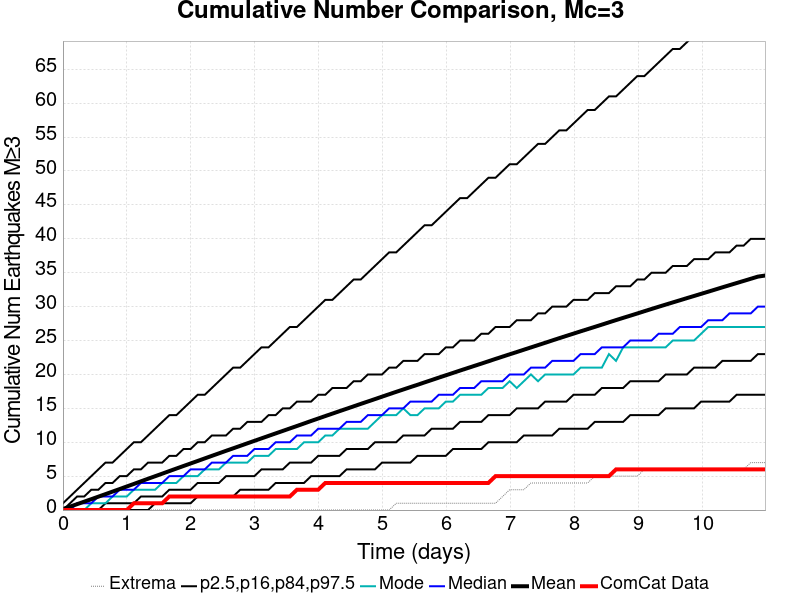
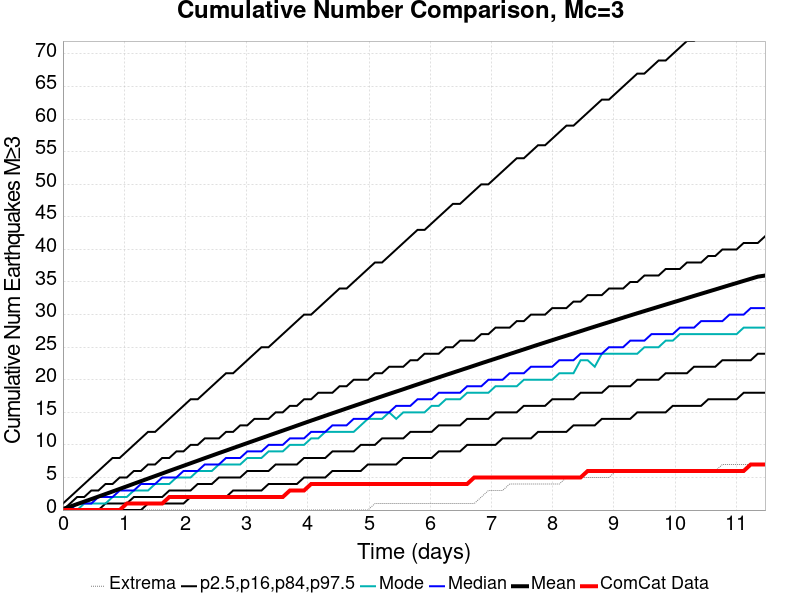
automatic plot and index update from opensha.usc.edu

diff --git a/2019_08_03-ComCatM7p1_ci38457511_28DaysAfter_ShakeMapSurfaces-noSpont-full_td-scale1.14/index.html b/2019_08_03-ComCatM7p1_ci38457511_28DaysAfter_ShakeMapSurfaces-noSpont-full_td-scale1.14/index.html
@@ -762,15 +762,15 @@ img {
 <p><em><a href="#table-of-contents">(top)</a></em></p>
 <table>
 <thead>
-<tr><th></th><th>1 Day</th><th>1 Week</th><th>11 Day</th></tr>
+<tr><th></th><th>1 Day</th><th>1 Week</th><th>11.5 Day</th></tr>
 </thead>
 <tbody>
-<tr><td><strong>M≥3</strong></td><td><img src="plots/comcat_compare_mean_1d_m3.png" alt="Map" /></td><td><img src="plots/comcat_compare_mean_1wk_m3.png" alt="Map" /></td><td><img src="plots/comcat_compare_mean_11d_m3.png" alt="Map" /></td></tr>
-<tr><td><strong>M≥4</strong></td><td><img src="plots/comcat_compare_mean_1d_m4.png" alt="Map" /></td><td><img src="plots/comcat_compare_mean_1wk_m4.png" alt="Map" /></td><td><img src="plots/comcat_compare_mean_11d_m4.png" alt="Map" /></td></tr>
-<tr><td><strong>M≥5</strong></td><td><img src="plots/comcat_compare_mean_1d_m5.png" alt="Map" /></td><td><img src="plots/comcat_compare_mean_1wk_m5.png" alt="Map" /></td><td><img src="plots/comcat_compare_mean_11d_m5.png" alt="Map" /></td></tr>
-<tr><td><strong>M≥6</strong></td><td><img src="plots/comcat_compare_mean_1d_m6.png" alt="Map" /></td><td><img src="plots/comcat_compare_mean_1wk_m6.png" alt="Map" /></td><td><img src="plots/comcat_compare_mean_11d_m6.png" alt="Map" /></td></tr>
-<tr><td><strong>M≥7</strong></td><td><img src="plots/comcat_compare_mean_1d_m7.png" alt="Map" /></td><td><img src="plots/comcat_compare_mean_1wk_m7.png" alt="Map" /></td><td><img src="plots/comcat_compare_mean_11d_m7.png" alt="Map" /></td></tr>
-<tr><td><strong>M≥8</strong></td><td><img src="plots/comcat_compare_mean_1d_m8.png" alt="Map" /></td><td><img src="plots/comcat_compare_mean_1wk_m8.png" alt="Map" /></td><td><img src="plots/comcat_compare_mean_11d_m8.png" alt="Map" /></td></tr>
+<tr><td><strong>M≥3</strong></td><td><img src="plots/comcat_compare_mean_1d_m3.png" alt="Map" /></td><td><img src="plots/comcat_compare_mean_1wk_m3.png" alt="Map" /></td><td><img src="plots/comcat_compare_mean_11.5d_m3.png" alt="Map" /></td></tr>
+<tr><td><strong>M≥4</strong></td><td><img src="plots/comcat_compare_mean_1d_m4.png" alt="Map" /></td><td><img src="plots/comcat_compare_mean_1wk_m4.png" alt="Map" /></td><td><img src="plots/comcat_compare_mean_11.5d_m4.png" alt="Map" /></td></tr>
+<tr><td><strong>M≥5</strong></td><td><img src="plots/comcat_compare_mean_1d_m5.png" alt="Map" /></td><td><img src="plots/comcat_compare_mean_1wk_m5.png" alt="Map" /></td><td><img src="plots/comcat_compare_mean_11.5d_m5.png" alt="Map" /></td></tr>
+<tr><td><strong>M≥6</strong></td><td><img src="plots/comcat_compare_mean_1d_m6.png" alt="Map" /></td><td><img src="plots/comcat_compare_mean_1wk_m6.png" alt="Map" /></td><td><img src="plots/comcat_compare_mean_11.5d_m6.png" alt="Map" /></td></tr>
+<tr><td><strong>M≥7</strong></td><td><img src="plots/comcat_compare_mean_1d_m7.png" alt="Map" /></td><td><img src="plots/comcat_compare_mean_1wk_m7.png" alt="Map" /></td><td><img src="plots/comcat_compare_mean_11.5d_m7.png" alt="Map" /></td></tr>
+<tr><td><strong>M≥8</strong></td><td><img src="plots/comcat_compare_mean_1d_m8.png" alt="Map" /></td><td><img src="plots/comcat_compare_mean_1wk_m8.png" alt="Map" /></td><td><img src="plots/comcat_compare_mean_11.5d_m8.png" alt="Map" /></td></tr>
 </tbody>
 </table>
 <h3 id="comcat-depth-distribution">ComCat Depth Distribution</h3>

diff --git a/index.html b/index.html
@@ -26,7 +26,7 @@ img {
 </thead>
 <tbody>
 <tr><td>2019/08/09</td><td><a href="2019_08_09-ComCatM7p1_ci38457511_ShakeMapSurfaces_NoERT-noSpont-no_ert/index.html">ComCat M7.1 (ci38457511), ShakeMap Surfaces, NoERT</a></td><td>2019/07/05</td><td>100000</td><td>Done</td><td>2019/08/09</td></tr>
-<tr><td>2019/08/03</td><td><a href="2019_08_03-ComCatM7p1_ci38457511_28DaysAfter_ShakeMapSurfaces-noSpont-full_td-scale1.14/index.html">ComCat M7.1 (ci38457511), 28 Days After, ShakeMap Surfaces</a></td><td>2019/08/02</td><td>100000</td><td>Done</td><td>2019/08/13</td></tr>
+<tr><td>2019/08/03</td><td><a href="2019_08_03-ComCatM7p1_ci38457511_28DaysAfter_ShakeMapSurfaces-noSpont-full_td-scale1.14/index.html">ComCat M7.1 (ci38457511), 28 Days After, ShakeMap Surfaces</a></td><td>2019/08/02</td><td>100000</td><td>Done</td><td>2019/08/14</td></tr>
 <tr><td>2019/07/27</td><td><a href="2019_07_27-ComCatM7p1_ci38457511_21DaysAfter_ShakeMapSurfaces-noSpont-full_td-scale1.14/index.html">ComCat M7.1 (ci38457511), 21 Days After, ShakeMap Surfaces</a></td><td>2019/07/26</td><td>100000</td><td>Done</td><td>2019/08/13</td></tr>
 <tr><td>2019/07/25</td><td><a href="2019_07_25-ComCatM7p1_ci38457511_19p6DaysAfter_ShakeMapSurfaces-noSpont-full_td-scale1.14/index.html">ComCat M7.1 (ci38457511), 19.6 Days After, ShakeMap Surfaces</a></td><td>2019/07/25</td><td>100000</td><td>Done</td><td>2019/08/14</td></tr>
 <tr><td>2019/07/18</td><td><a href="2019_07_18-ComCatM7p1_ci38457511_InvertedSurface_ShakeMapSurface-noSpont-full_td-scale1.14/index.html">ComCat M7.1 (ci38457511), Inverted Surface, ShakeMap Surface</a></td><td>2019/07/05</td><td>100000</td><td>Done</td><td>2019/08/12</td></tr>

diff --git a/2019_08_03-ComCatM7p1_ci38457511_28DaysAfter_ShakeMapSurfaces-noSpont-full_td-scale1.14/README.md b/2019_08_03-ComCatM7p1_ci38457511_28DaysAfter_ShakeMapSurfaces-noSpont-full_td-scale1.14/README.md
@@ -704,14 +704,14 @@ These plots compare simulated sequences with data from ComCat. All plots only co
 ### ComCat Mean Spatial Distribution
 *[(top)](#table-of-contents)*
 
-|  | 1 Day | 1 Week | 11 Day |
+|  | 1 Day | 1 Week | 11.5 Day |
 |-----|-----|-----|-----|
-| **M≥3** | ![Map](plots/comcat_compare_mean_1d_m3.png) | ![Map](plots/comcat_compare_mean_1wk_m3.png) | ![Map](plots/comcat_compare_mean_11d_m3.png) |
-| **M≥4** | ![Map](plots/comcat_compare_mean_1d_m4.png) | ![Map](plots/comcat_compare_mean_1wk_m4.png) | ![Map](plots/comcat_compare_mean_11d_m4.png) |
-| **M≥5** | ![Map](plots/comcat_compare_mean_1d_m5.png) | ![Map](plots/comcat_compare_mean_1wk_m5.png) | ![Map](plots/comcat_compare_mean_11d_m5.png) |
-| **M≥6** | ![Map](plots/comcat_compare_mean_1d_m6.png) | ![Map](plots/comcat_compare_mean_1wk_m6.png) | ![Map](plots/comcat_compare_mean_11d_m6.png) |
-| **M≥7** | ![Map](plots/comcat_compare_mean_1d_m7.png) | ![Map](plots/comcat_compare_mean_1wk_m7.png) | ![Map](plots/comcat_compare_mean_11d_m7.png) |
-| **M≥8** | ![Map](plots/comcat_compare_mean_1d_m8.png) | ![Map](plots/comcat_compare_mean_1wk_m8.png) | ![Map](plots/comcat_compare_mean_11d_m8.png) |
+| **M≥3** | ![Map](plots/comcat_compare_mean_1d_m3.png) | ![Map](plots/comcat_compare_mean_1wk_m3.png) | ![Map](plots/comcat_compare_mean_11.5d_m3.png) |
+| **M≥4** | ![Map](plots/comcat_compare_mean_1d_m4.png) | ![Map](plots/comcat_compare_mean_1wk_m4.png) | ![Map](plots/comcat_compare_mean_11.5d_m4.png) |
+| **M≥5** | ![Map](plots/comcat_compare_mean_1d_m5.png) | ![Map](plots/comcat_compare_mean_1wk_m5.png) | ![Map](plots/comcat_compare_mean_11.5d_m5.png) |
+| **M≥6** | ![Map](plots/comcat_compare_mean_1d_m6.png) | ![Map](plots/comcat_compare_mean_1wk_m6.png) | ![Map](plots/comcat_compare_mean_11.5d_m6.png) |
+| **M≥7** | ![Map](plots/comcat_compare_mean_1d_m7.png) | ![Map](plots/comcat_compare_mean_1wk_m7.png) | ![Map](plots/comcat_compare_mean_11.5d_m7.png) |
+| **M≥8** | ![Map](plots/comcat_compare_mean_1d_m8.png) | ![Map](plots/comcat_compare_mean_1wk_m8.png) | ![Map](plots/comcat_compare_mean_11.5d_m8.png) |
 
 ### ComCat Depth Distribution
 *[(top)](#table-of-contents)*

diff --git a/README.md b/README.md
@@ -3,7 +3,7 @@
 | Config Date | Name | Sim Start Date | # Simulations | Progress | Plot Date |
 |-----|-----|-----|-----|-----|-----|
 | 2019/08/09 | [ComCat M7.1 (ci38457511), ShakeMap Surfaces, NoERT](2019_08_09-ComCatM7p1_ci38457511_ShakeMapSurfaces_NoERT-noSpont-no_ert/README.md) | 2019/07/05 | 100000 | Done | 2019/08/09 |
-| 2019/08/03 | [ComCat M7.1 (ci38457511), 28 Days After, ShakeMap Surfaces](2019_08_03-ComCatM7p1_ci38457511_28DaysAfter_ShakeMapSurfaces-noSpont-full_td-scale1.14/README.md) | 2019/08/02 | 100000 | Done | 2019/08/13 |
+| 2019/08/03 | [ComCat M7.1 (ci38457511), 28 Days After, ShakeMap Surfaces](2019_08_03-ComCatM7p1_ci38457511_28DaysAfter_ShakeMapSurfaces-noSpont-full_td-scale1.14/README.md) | 2019/08/02 | 100000 | Done | 2019/08/14 |
 | 2019/07/27 | [ComCat M7.1 (ci38457511), 21 Days After, ShakeMap Surfaces](2019_07_27-ComCatM7p1_ci38457511_21DaysAfter_ShakeMapSurfaces-noSpont-full_td-scale1.14/README.md) | 2019/07/26 | 100000 | Done | 2019/08/13 |
 | 2019/07/25 | [ComCat M7.1 (ci38457511), 19.6 Days After, ShakeMap Surfaces](2019_07_25-ComCatM7p1_ci38457511_19p6DaysAfter_ShakeMapSurfaces-noSpont-full_td-scale1.14/README.md) | 2019/07/25 | 100000 | Done | 2019/08/14 |
 | 2019/07/18 | [ComCat M7.1 (ci38457511), Inverted Surface, ShakeMap Surface](2019_07_18-ComCatM7p1_ci38457511_InvertedSurface_ShakeMapSurface-noSpont-full_td-scale1.14/README.md) | 2019/07/05 | 100000 | Done | 2019/08/12 |
